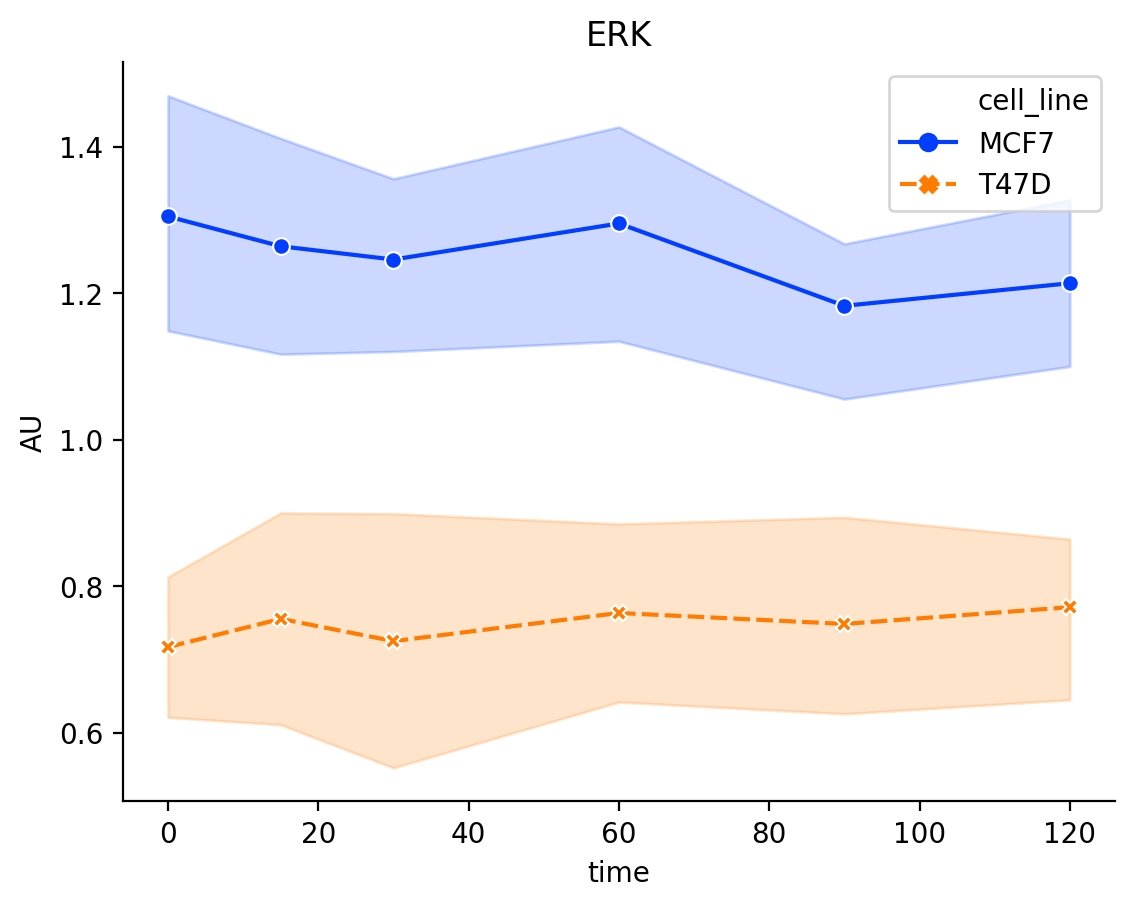
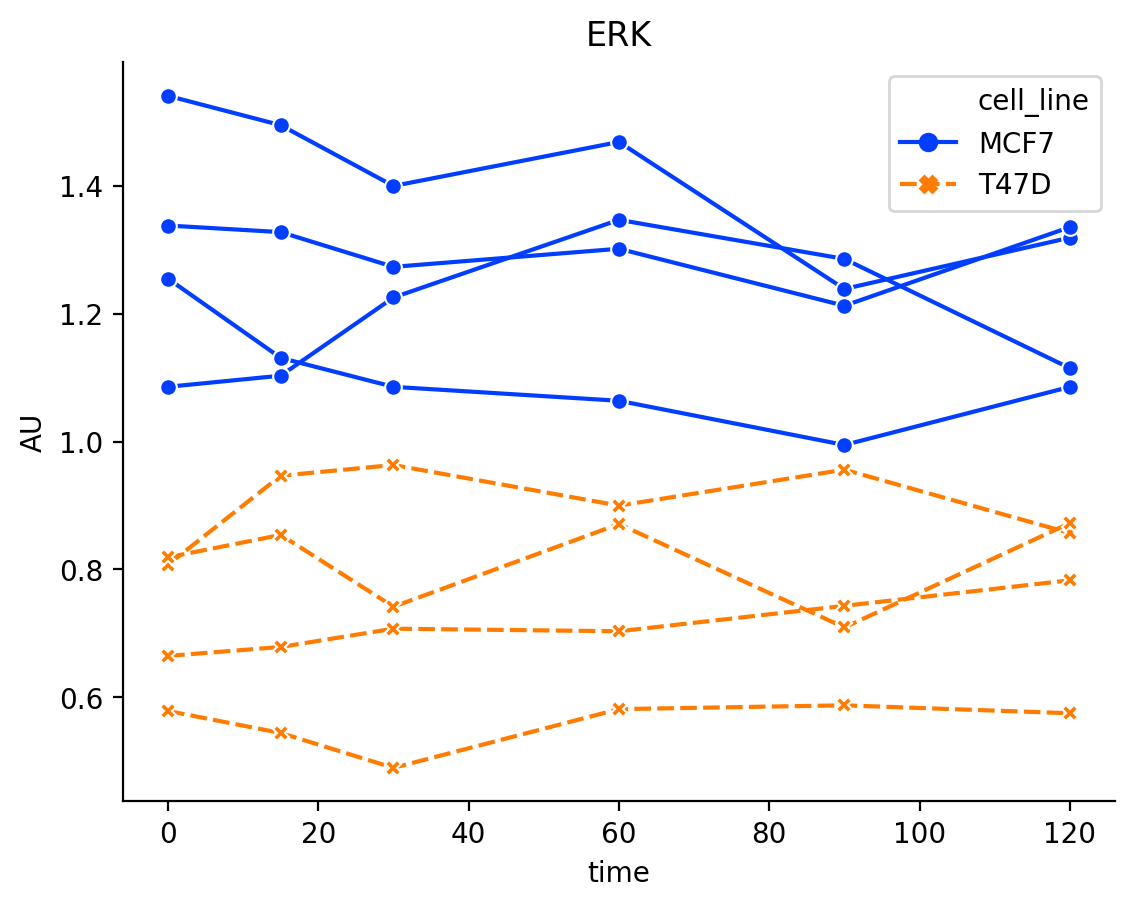
mass action backwards reactions and michaelis menton forwards

diff --git a/models/simple_akt_model.py b/models/simple_akt_model.py
@@ -3,24 +3,19 @@ import pandas, numpy
 from collections import OrderedDict
 import tellurium as te
 import site
+
 site.addsitedir(r'D:\pycotools3')
 from pycotools3 import model, tasks, viz
 
 # WORKING_DIRECTORY = os.path.join(os.path.dirname(__file__))
-WORKING_DIRECTORY = r'D:\MesiSTRAT\BreastCancer'
+WORKING_DIRECTORY = r'D:\BreastCancerModel'
 MODELS_DIRECTORY = os.path.join(WORKING_DIRECTORY, 'models')
 DATA_DIRECTORY = os.path.join(WORKING_DIRECTORY, 'data')
 SS_DATA_FILE = fname = os.path.join(DATA_DIRECTORY, 'ss_data.csv')
 
-
 COPASI_FILE = os.path.join(MODELS_DIRECTORY, 'simple_akt_model.cps')
 COPASI_FORMATTED_DATA = fname = os.path.join(DATA_DIRECTORY, 'copasi_formatted_data.csv')
-
-
-
-
-
-
+COPASI_INTERP_DATA = fname = os.path.join(DATA_DIRECTORY, 'copasi_data_interp.csv')
 
 """
 How to model the initial concentrations?
@@ -38,12 +33,58 @@ This means we should separate observables from model species. We need a global v
 
 """
 
-
-
-
-
-
 model_string = """
+
+function MM(km, Vmax, S)
+    Vmax * S / (km + S)
+end
+
+function MMWithKcat(km, kcat, S, E)
+    kcat * E * S / (km + S)
+end
+
+
+function NonCompetitiveInhibition(km, ki, Vmax, n, I, S)
+    Vmax * S / ( (km + S) * (1 + (I / ki)^n ) )
+end
+
+function NonCompetitiveInhibitionWithKcat(km, ki, kcat, E, n, I, S)
+    kcat * E * S / ( (km + S) * (1 + (I / ki)^n ) )
+end
+
+function NonCompetitiveInhibitionWithKcatAndExtraActivator(km, ki, kcat, E1, E2, n, I, S)
+    kcat * E1 * E2 * S / ( (km + S) * (1 + (I / ki)^n ) )
+end
+
+
+function MA1(k, S)
+    k * S
+end
+
+function MA2(k, S1, S2)
+    k * S1 * S2
+end
+
+function MA1Mod(k, S, M)
+    k * S * M
+end
+
+function MA2Mod(k, S1, S2, M)
+    k * S1 * S2 * M
+end
+
+function CompetitiveInhibitionWithKcat(km, ki, kcat, E, I, S)
+    kcat * E * S / (km + S + ((km * I )/ ki)  )
+end    
+
+function CompetitiveInhibition(Vmax, km, ki, I, S)
+    Vmax * S / (km + S + ((km * I )/ ki)  )
+end
+
+function Hill(km, kcat, L, S, h)
+    kcat * L * (S / km)^h  /   1 + (S / km)^h 
+end
+
 model SimpleAktModel()
     compartment Cell = 1;
     var IRS1    in Cell;
@@ -70,12 +111,12 @@ model SimpleAktModel()
     FourEBP1_tot                := FourEBP1 + FourE_BP1pT37_46;
     S6K_tot                     := S6K + S6KpT389;    
     
-    IRS1_obs                    := IRS1_tot;       
-    Akt_obs                     := Akt_tot;   
-    TSC2_obs                    := TSC2_tot;       
-    PRAS40_obs                  := PRAS40_tot;       
-    FourEBP1_obs                := FourEBP1_tot;           
-    S6K_obs                     := S6K_tot ;       
+    // IRS1_obs                    := IRS1_tot;       
+    // Akt_obs                     := Akt_tot;   
+    // TSC2_obs                    := TSC2_tot;       
+    // PRAS40_obs                  := PRAS40_tot;       
+    // FourEBP1_obs                := FourEBP1_tot;           
+    // S6K_obs                     := S6K_tot ;       
     
     IRS1pS636_639_obs           := IRS1pS636_639;          
     AktpT308_obs                := AktpT308;           
@@ -100,45 +141,53 @@ model SimpleAktModel()
     S6KpT389            = 0.395656;
     
     // kinetic parameters
-    _kIRS1Phos           = 0.1;     
-    _kIRS1Dephos         = 0.1;         
-    _kAktPhos            = 0.1;     
-    _kAktDephos          = 0.1;     
-    _kTSC2Phos           = 0.1;     
-    _kTSC2Dephos         = 0.1;         
-    _kPras40PhosByAkt    = 0.1;             
-    _kPras40PhosByTSC    = 0.1;             
-    _kPras40Dephos       = 0.1;         
-    _kFourEBP1Phos           = 0.1;     
-    _kFourEBP1Dephos         = 0.1;         
-    _kS6KPhos            = 0.1;     
-    _kS6KDephos          = 0.1;     
+    _kIRS1Phos                 = 0.1; 
+    _kIRS1Dephos               = 0.1;     
+    _kAktPhos_km               = 0.1;     
+    _kAktPhos_kcat             = 0.1;     
+    _kAktDephos                = 0.1; 
+    _kTSC2Phos_km              = 0.1;     
+    _kTSC2Phos_kcat            = 0.1;     
+    _kTSC2Dephos               = 0.1;     
+    _kPras40PhosByAkt_km       = 0.1;             
+    _kPras40PhosByAkt_kcat     = 0.1;             
+    //_kPras40PhosByTSC          = 0.1;         
+    _kPras40Dephos             = 0.1;     
+    _kFourEBP1Phos_km          = 0.1;         
+    _kFourEBP1Phos_kcat        = 0.1;         
+    _kFourEBP1Dephos           = 0.1;         
+    _kS6KPhos_km               = 0.1;     
+    _kS6KPhos_kcat             = 0.1;     
+    _kS6KDephos                = 0.1; 
     
-    // reactions
-    R1 : IRS1 => IRS1pS636_639 ;        Cell*   _kIRS1Phos*Insulin*IRS1;
-    R2 : IRS1pS636_639 => IRS1 ;        Cell*   _kIRS1Dephos*S6KpT389*IRS1pS636_639;
-    R3 : Akt => AktpT308 ;          Cell*   _kAktPhos*IRS1pS636_639*Akt;
-    R4 : AktpT308 => Akt ;          Cell*   _kAktDephos*AktpT308;
-    R5 : TSC2 => TSC2pT1462 ;        Cell*   _kTSC2Phos*AktpT308*TSC2;
-    R6 : TSC2pT1462 => TSC2 ;        Cell*   _kTSC2Dephos*TSC2pT1462;
-    R7 : PRAS40 => PRAS40pS183 ;    Cell*   _kPras40PhosByAkt*AktpT308*PRAS40;
-    R8 : PRAS40 => PRAS40pS183 ;    Cell*   _kPras40PhosByTSC*TSC2pT1462*PRAS40;
-    R9 : PRAS40pS183 => PRAS40 ;    Cell*   _kPras40Dephos*TSC2pT1462;
-    R10: FourEBP1 => FourE_BP1pT37_46 ;        Cell*   _kFourEBP1Phos*TSC2*FourEBP1;
-    R11: FourE_BP1pT37_46 => FourEBP1 ;        Cell*   _kFourEBP1Dephos*FourE_BP1pT37_46;
-    R12: S6K => S6KpT389 ;          Cell*   _kS6KPhos*TSC2*S6K;
-    R13: S6KpT389 => S6K ;          Cell*   _kS6KDephos*S6KpT389;
+    // reactions // MMWithKcat(km, kcat, S, E)
+    R1 : IRS1 => IRS1pS636_639 ;                Cell*   MMWithKcat(_kIRS1Phos_km, _kIRS1Phos_kcat, IRS1, Insulin);
+    R2 : IRS1pS636_639 => IRS1 ;                Cell*   _kIRS1Dephos*IRS1pS636_639*S6KpT389;
+    R3 : Akt => AktpT308 ;                      Cell*   MMWithKcat(_kAktPhos_km, _kAktPhos_kcat, Akt, IRS1pS636_639);
+    R4 : AktpT308 => Akt ;                      Cell*   _kAktDephos*AktpT308;
+    R5 : TSC2 => TSC2pT1462 ;                   Cell*   MMWithKcat(_kTSC2Phos_km, _kTSC2Phos_kcat, TSC2, AktpT308);
+    R6 : TSC2pT1462 => TSC2 ;                   Cell*   _kTSC2Dephos*TSC2pT1462;
+    R7 : PRAS40 => PRAS40pS183 ;                Cell*   MMWithKcat(_kPras40PhosByAkt_km, _kPras40PhosByAkt_kcat, PRAS40, AktpT308);
+    //R8 : PRAS40 => PRAS40pS183 ;                Cell*   _kPras40PhosByTSC*TSC2pT1462*PRAS40;
+    R9 : PRAS40pS183 => PRAS40 ;                Cell*   _kPras40Dephos*TSC2pT1462;
+    R10: FourEBP1 => FourE_BP1pT37_46 ;         Cell*   MMWithKcat(_kFourEBP1Phos_km, _kFourEBP1Phos_kcat, FourEBP1, TSC2);
+    R11: FourE_BP1pT37_46 => FourEBP1 ;         Cell*   _kFourEBP1Dephos*FourE_BP1pT37_46;
+    R12: S6K => S6KpT389 ;                      Cell*   MMWithKcat(_kS6KPhos_km, _kS6KPhos_kcat, S6K, TSC2);
+    R13: S6KpT389 => S6K ;                      Cell*   _kS6KDephos*S6KpT389;
 
 end
 
 
 """
 
-# model = te.loada(model_string)
+BUILD_NEW = True
 
-mod = model.loada(model_string, copasi_file=COPASI_FILE)
+if BUILD_NEW:
+    mod = model.loada(model_string, copasi_file=COPASI_FILE)
+else:
+    mod = model.Model(COPASI_FILE)
 
-with tasks.ParameterEstimation.Context(mod, [COPASI_FORMATTED_DATA, SS_DATA_FILE ],
+with tasks.ParameterEstimation.Context(mod, [SS_DATA_FILE, COPASI_INTERP_DATA],
                                        parameters='g') as context:
     context.set('separator', '\t')
     context.set('run_mode', False)
@@ -154,8 +203,6 @@ with tasks.ParameterEstimation.Context(mod, [COPASI_FORMATTED_DATA, SS_DATA_FILE
 pe = tasks.ParameterEstimation(config)
 mod = pe.models['simple_akt_model'].model
 
-
-
 print(mod.open())
 
 '''
@@ -167,12 +214,9 @@ the correct value.
 
 '''
 
-
 # Theere are currently two problems with pycotools3:
 #     1) independent variables not correctly beting mapped when using indep keyord
 #     2) initial values are being assigned insteam of transient during parameter estimation setup
 
 
-
-
-
+# normalise activity to total protein

diff --git a/data/data_analysis.py b/data/data_analysis.py
@@ -4,8 +4,12 @@ import os, glob
 import xlrd
 import matplotlib.pyplot as plt
 import seaborn
+from scipy.interpolate import interp1d
+import site
+site.addsitedir(r'D:\pytseries')
+from pytseries.core import TimeSeries, TimeSeriesGroup
 
-WORKING_DIRECTORY = r'D:\MesiSTRAT\BreastCancer'
+WORKING_DIRECTORY = r'D:\BreastCancerModel'
 DATA_DIRECTORY = os.path.join(WORKING_DIRECTORY, 'data')
 DATA_FILE = os.path.join(DATA_DIRECTORY, 'experimental_data.xlsx')
 SS_DATA_FILE = fname = os.path.join(DATA_DIRECTORY, 'ss_data.csv')
@@ -118,10 +122,14 @@ class GetData:
             df_dct[ab] = df / data['Coomassie staining']
         return pandas.concat(df_dct, axis=1)
 
-    def to_copasi_format(self, fname, delimiter='\t'):
-        data = self.get_data_normalised_to_coomassie_blue()
+    def to_copasi_format(self, fname, delimiter='\t', data=None):
+        if data is None:
+            data = self.get_data_normalised_to_coomassie_blue()
         data = data.stack()
-        data = data.loc['MCF7']
+        try:
+            data = data.loc['MCF7']
+        except KeyError:
+            pass
         data['Insulin_indep'] = 1
         data.index = data.index.swaplevel(0, 1)
         data = data.sort_index(level='repeats')
@@ -137,6 +145,8 @@ class GetData:
         repeats = list(set(data.index.get_level_values(0)))
         data = data.reset_index(level=1)
 
+        data = data[data['time'] < 45]
+        # print(data)
         s = ''
         for name in data.columns:
             s += name + delimiter
@@ -162,6 +172,29 @@ class GetData:
 
         return s
 
+    def interpolate_mcf7_data(self, num=12):
+        data = self.get_data_normalised_to_coomassie_blue()
+        data = data.transpose()
+        data.index.names = ['antibody', 'repeats']
+        data = data.transpose()
+        data = data.loc['MCF7']
+        data = data.stack().unstack(level=0).stack(level=0)
+        data.index = data.index.swaplevel(0, 1)
+        tsg_dct = {}
+        for label, df in data.groupby(level='repeats'):
+            df.index = df.index.droplevel('repeats')
+            tsg = TimeSeriesGroup(df).interpolate(kind='linear', num=num)
+            tsg = tsg.as_df()
+            tsg_dct[label] = tsg
+
+        data2 = pandas.concat(tsg_dct)
+        data2.index.names = ['repeats', 'antibody']
+        data2.columns.names = data.columns.names
+        data2 = data2.unstack(level=1).stack(level=0).unstack(level=0)
+        # data2.index = [(round(i, 3) for i in data2.index)]
+        # print(data2)
+        return data2
+
 
 def plot(data, prefix, savefig=False):
     data = data.stack().stack()
@@ -171,13 +204,30 @@ def plot(data, prefix, savefig=False):
 
         seaborn.lineplot(x='time', y=0, data=df.reset_index(),
                          hue='cell_line', style='cell_line',
-                         palette='bright', markers=True, ci=95)
+                         palette='bright', markers=True, ci=95, linestyle='-', estimator=None,
+                         units='repeats')
         seaborn.despine(fig, top=True, right=True)
         plt.ylabel('AU')
         plt.title(label)
         fname = os.path.join(PLOTS_DIR, '{}_{}'.format(prefix, label))
         if savefig:
             plt.savefig(fname, dpi=200, bbox_inches='tight')
+
+def plot_repeats(data, prefix, savefig=False):
+    data = data.stack().stack()
+    data = pandas.DataFrame(data)
+    for label, df in data.groupby(level=[3, 2]):
+        fig = plt.figure()
+        print(df)
+        # seaborn.scatterplot(x='time', y=0, data=df.reset_index(),
+        #                  hue='cell_line', style='cell_line',
+        #                  palette='bright', markers=True, ci=95)
+        # seaborn.despine(fig, top=True, right=True)
+        # plt.ylabel('AU')
+        # plt.title(label)
+        # fname = os.path.join(PLOTS_DIR, '{}_{}'.format(prefix, label))
+        # if savefig:
+        #     plt.savefig(fname, dpi=200, bbox_inches='tight')
 
 
 def principle_component_analysis(data, colourby='cell_line', savefig=False):
@@ -229,6 +279,8 @@ def ss_data_to_copasi_format():
 
 if __name__ == '__main__':
     gd = GetData(DATA_FILE)
+
+    print(gd.interpolate())
 
 
 

diff --git a/data/tests.py b/data/tests.py
@@ -12,7 +12,7 @@ class ParseDataTests(unittest.TestCase):
     def setUp(self):
         self.data_dir = os.path.join(WORKING_DIRECTORY, 'data')
         self.data_file = os.path.join(self.data_dir, 'experimental_data.xlsx')
-        assert os.path.isfile(self.data_file)
+        assert os.path.isfile(self.data_file), self.data_file
         self.gd = GetData(self.data_file)
 
     def test_open_workbook(self):
@@ -51,6 +51,16 @@ class ParseDataTests(unittest.TestCase):
         self.assertAlmostEqual(df.loc[('MCF7', 0), ('GAPDH', 3)], top_right)
         self.assertAlmostEqual(df.loc[('T47D', 120), ('GAPDH', 3)], bottom_right)
 
+    def test_interpolate(self):
+        data = self.gd.interpolate_mcf7_data(num=12)
+        self.assertEqual(12, data.shape[0])
+
+    def test_interpolated_data_to_copasi(self):
+        fname = os.path.join(DATA_DIRECTORY, 'copasi_data_interp.csv')
+        data = self.gd.interpolate_mcf7_data(num=30)
+        self.gd.to_copasi_format(fname=fname, data=data)
+
+
 
 class DataTests(unittest.TestCase):
 
@@ -70,9 +80,16 @@ class DataTests(unittest.TestCase):
         raw = self.gd.get_raw_data()
         av = self.gd.get_data_normed_to_average()
         coomassie = self.gd.get_data_normalised_to_coomassie_blue()
-        plot(raw, 'raw', True)
-        plot(av, 'average', True)
+        # plot(raw, 'raw', True)
+        # plot(av, 'average', True)
         plot(coomassie, 'coomassie', True)
+        # plt.show()
+
+    def test_plot_repeats(self):
+        raw = self.gd.get_raw_data()
+        av = self.gd.get_data_normed_to_average()
+        coomassie = self.gd.get_data_normalised_to_coomassie_blue()
+        plot_repeats(coomassie, 'coomassie', True)
         # plt.show()
 
     def test_pca(self):
